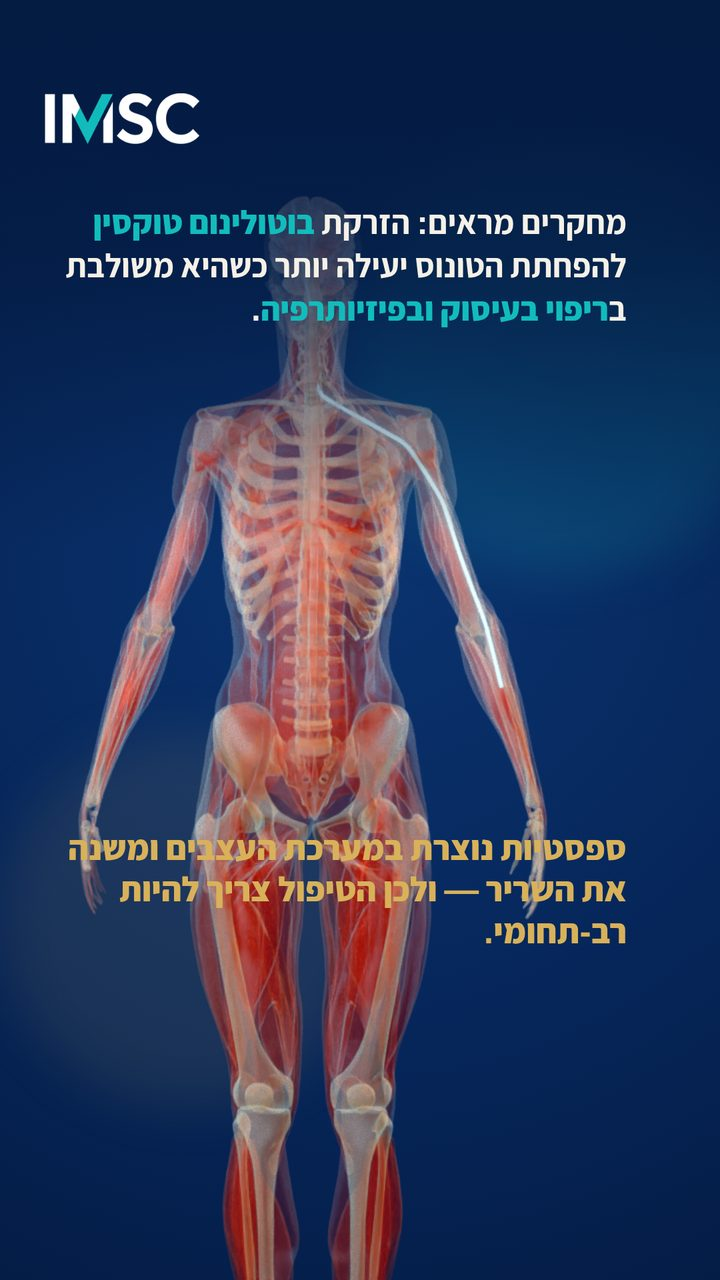
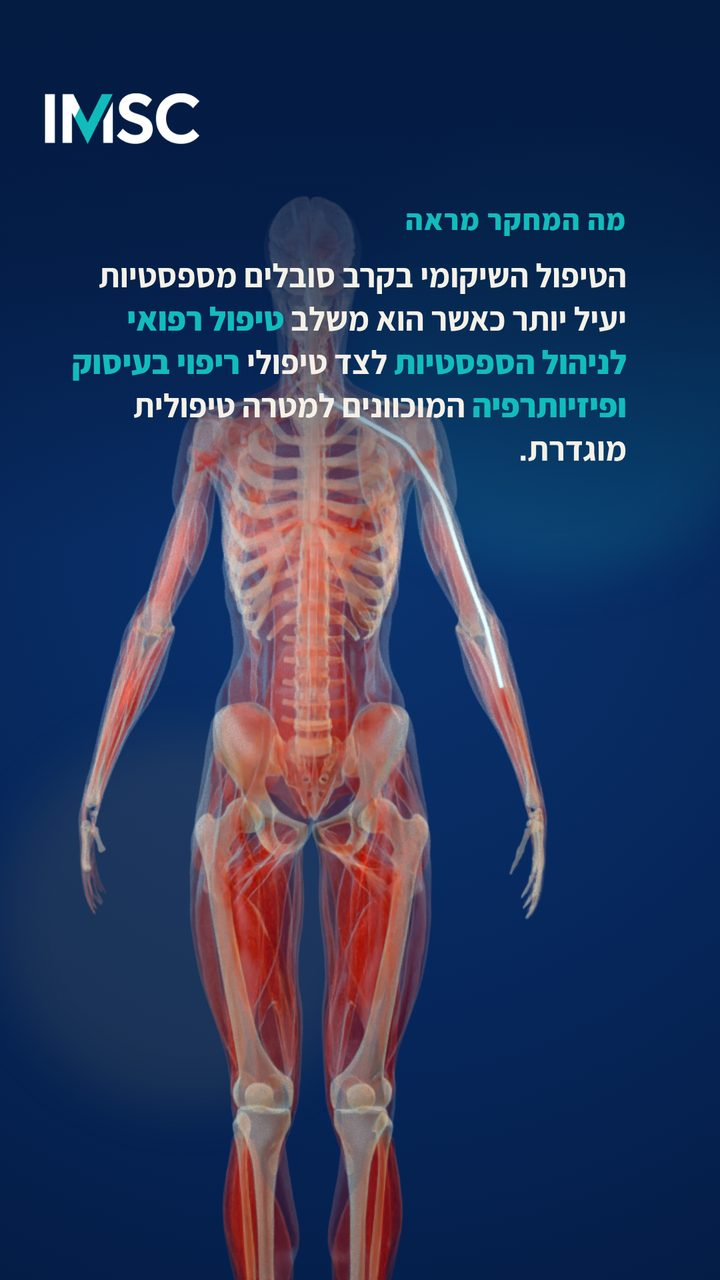
spasticity: round 2 update — scene 12 wording, new scene 13 'זכרו!', 14 frames

Changed region(s): [[0.0917, 0.1562, 0.8861, 0.375], [0.0917, 0.6562, 0.8861, 0.75]]

diff --git a/spasticity-keyframes-v2/index.html b/spasticity-keyframes-v2/index.html
@@ -99,8 +99,8 @@ const CONFIG = {
   project: "spasticity-keyframes-v2",
   brand: "IMSC · \"איך נוצרת ספסטיות?\" · פריימי מפתח · סבב 2",
   h1: "פריימי המפתח לאישור: סבב 2",
-  intro: "סבב 2 אחרי ההערות מ-30.9. הסרטון נבנה מחדש בסדר רעיוני חדש: מה היא ספסטיות → מה גורם לה → היא מתחילה במערכת העצבים → המצב התקין → אחרי הפגיעה → לאורך זמן → איך זה נראה → השינוי בשריר → איך מטפלים → מה המחקר מראה. הלשון פושטה, ושתי סצנות חדשות (2 ו-12). כל פריט שהשתנה מסומן \"שונה\" עם הסבר. כתבו רק מה שצריך לשנות — תיבה ריקה = מאושר. בסוף לחצו \"שמור\".",
-  facts: ["סבב 2 · תסריט v5", "13 פריימים", "ריל 9:16 · 81 שנ׳", "בנגן: בדיקת תנועה של הפתיחה (סבב 1)"],
+  intro: "סבב 2 אחרי ההערות מ-30.9. הסרטון נבנה מחדש בסדר רעיוני חדש: מה היא ספסטיות → מה גורם לה → היא מתחילה במערכת העצבים → המצב התקין → אחרי הפגיעה → לאורך זמן → איך זה נראה → השינוי בשריר → איך מטפלים → מה המחקר מראה. הלשון פושטה, ושלוש סצנות חדשות (2, 12 ו-13 'זכרו!'). כל פריט שהשתנה מסומן \"שונה\" עם הסבר. כתבו רק מה שצריך לשנות — תיבה ריקה = מאושר. בסוף לחצו \"שמור\".",
+  facts: ["סבב 2 · תסריט v5", "14 פריימים", "ריל 9:16 · 88 שנ׳", "בנגן: בדיקת תנועה של הפתיחה (סבב 1)"],
   video: {src:'video/opening-test.mp4', poster:'img/poster.jpg'},
   generalHint: 'על הכול יחד: מראה, צבעים, תאורה, גודל הגוף, או כל דבר שלא שייך לפריים אחד.',
   doc: "reviews/spasticity-keyframes-v2",
@@ -222,19 +222,29 @@ const CONFIG = {
  {
   "k": "k12",
   "n": "12",
-  "t": "מה המחקר מראה + המסר",
+  "t": "מה המחקר מראה",
   "sub": "ריל 68–74",
   "img": "img/kf_12.jpg",
-  "quote": "מחקרים מראים: הזרקת בוטולינום טוקסין להפחתת הטונוס יעילה יותר כשהיא משולבת בריפוי בעיסוק ובפיזיותרפיה. ספסטיות נוצרת במערכת העצבים ומשנה את השריר — ולכן הטיפול צריך להיות רב-תחומי.",
-  "body": "הגוף השקוף עם החוט הטורקיז מוח–חוט שדרה–שריר; המסר נוחת ועוצר.",
-  "ch": "סצנה חדשה לפי ההערה הכללית. הנוסח זהיר (\"יעילה יותר כשמשולבת\")."
+  "quote": "הטיפול השיקומי בקרב סובלים מספסטיות יעיל יותר כאשר הוא משלב טיפול רפואי לניהול הספסטיות לצד טיפולי ריפוי בעיסוק ופיזיותרפיה המוכוונים למטרה טיפולית מוגדרת.",
+  "body": "הגוף השקוף עם החוט הטורקיז מוח–חוט שדרה–שריר; המשפט נכנס בשני חלקים.",
+  "ch": "הנוסח שכתבתם ב-30.9. משפט המסר הקודם ירד לטובת \"זכרו!\"."
  },
  {
   "k": "k13",
   "n": "13",
-  "t": "סיום",
+  "t": "זכרו!",
   "sub": "ריל 74–81",
   "img": "img/kf_13.jpg",
+  "quote": "זכרו! המטרה היא לא בהכרח לצמצם ספסטיות — אלא לסייע בשיפור התפקוד והעצמאות של המטופל בחיי היום-יום.",
+  "body": "מטופל (דמות העור) עם יד ספסטית מושיט יד לכוס ומוביל אותה לכיוון הפה. היד נשארת בתנוחה ספסטית חלקית. הפריים מראה את ההושטה; התנועה בטיוטה המלאה.",
+  "ch": "סצנה חדשה לפי ההערה שלכם ב-30.9."
+ },
+ {
+  "k": "k14",
+  "n": "14",
+  "t": "סיום",
+  "sub": "ריל 81–88",
+  "img": "img/kf_14.jpg",
   "quote": "שקופית הסיום הקבועה של הסדרה",
   "body": "לוגו, ד״ר צווקר ואביה, \"לחצו 'למידע נוסף' והשאירו פרטים\", וואטסאפ, כתובת. זהה לסרטונים הקודמים; מוצג כאן כמציין מקום."
  }
